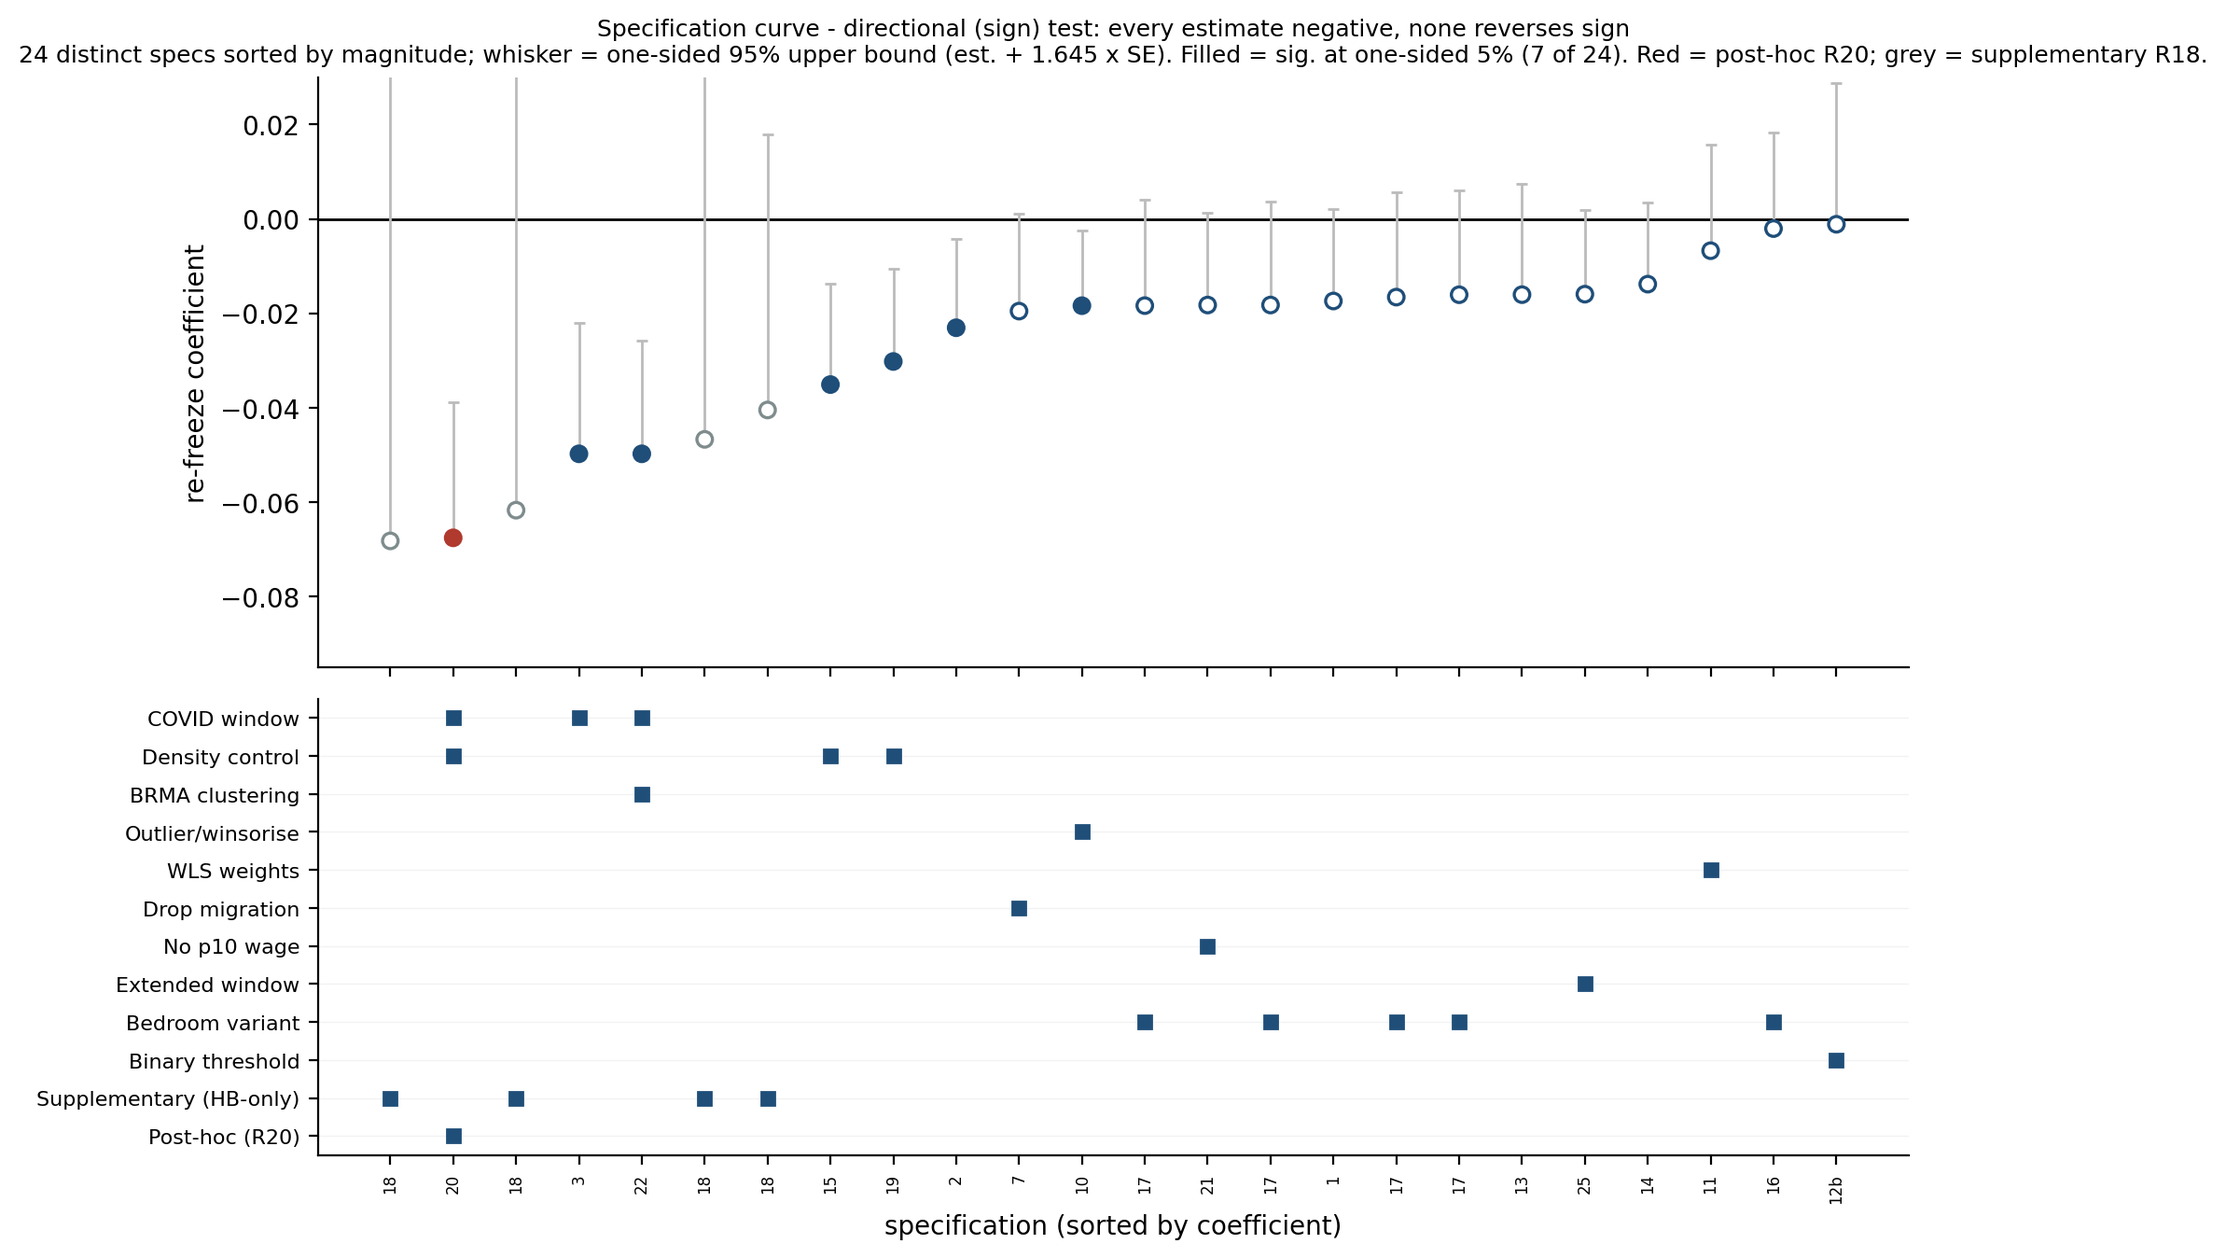
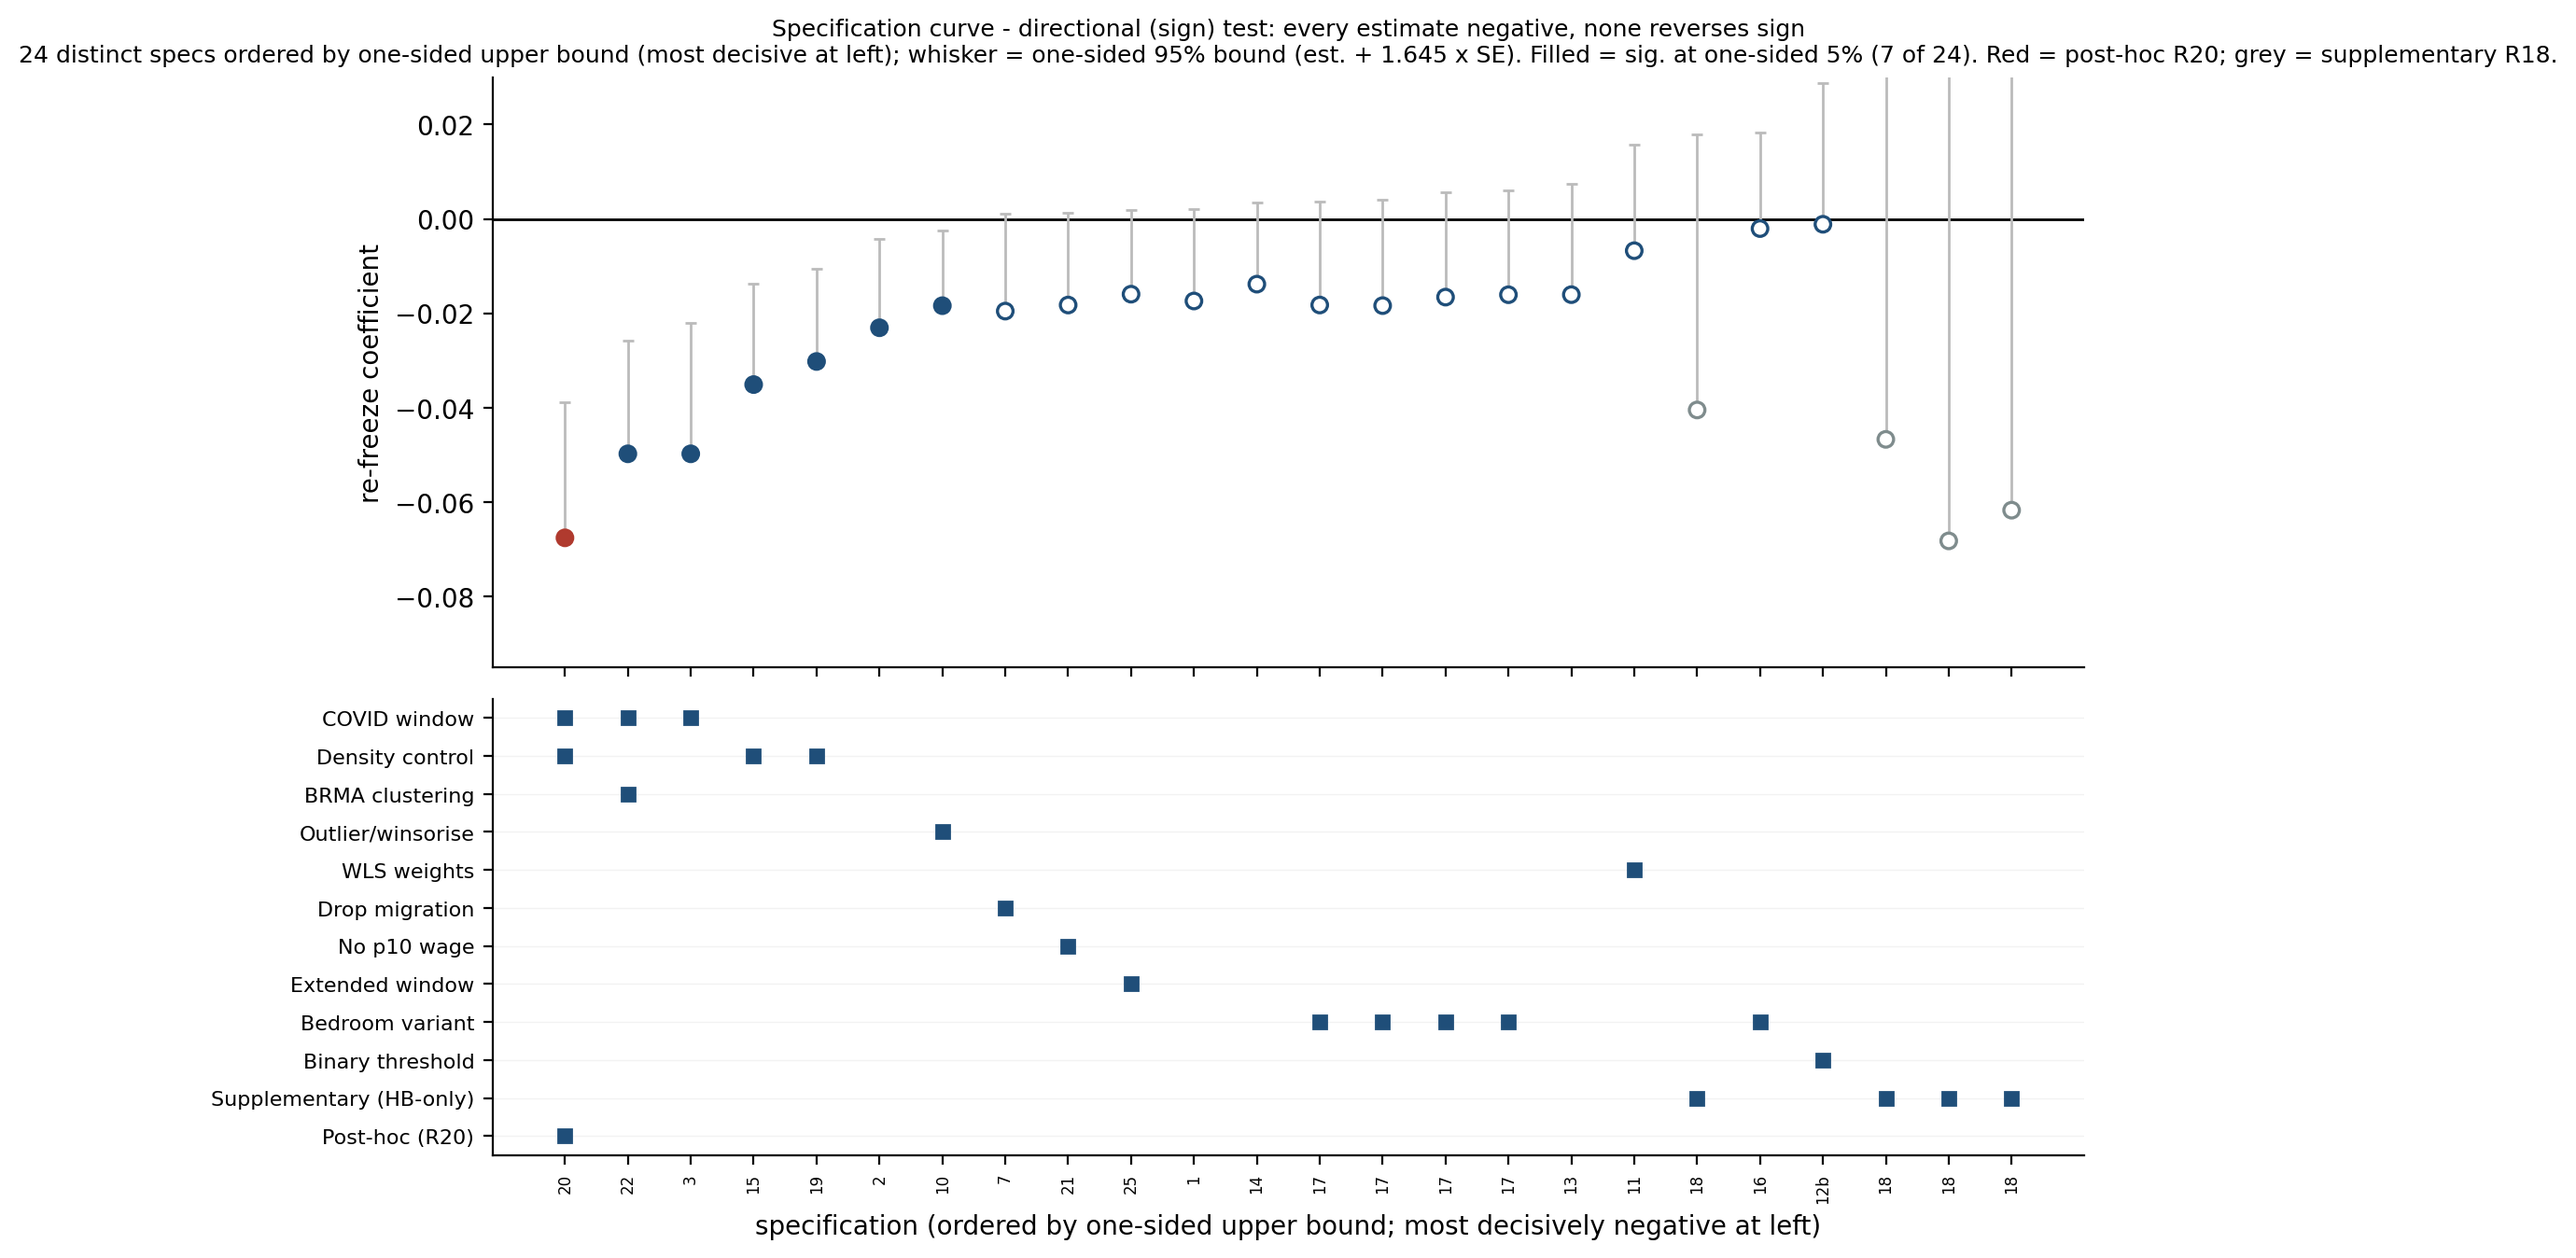
Update NEF package site

diff --git a/pages/working-papers/fiscal-capture.html b/pages/working-papers/fiscal-capture.html
@@ -1160,7 +1160,7 @@ Table&nbsp;4
 <p><img src="../../papers/spec_curve_cg2026b.png" style="width:92.0%" data-fig-align="center" class="figure-img"></p>
 </div>
 <figcaption class="quarto-float-caption-bottom quarto-float-caption quarto-float-fig" id="fig-spec-curve-caption-0ceaefa1-69ba-4598-a22c-09a6ac19f8ca">
-Figure&nbsp;5: <strong>Specification curve (directional test).</strong> The re-freeze coefficient (LHA intensity interacted with the freeze indicator) across the 24 distinct fiscal-capture specifications, sorted by magnitude. Because the design tests a signed prediction, each whisker is the one-sided 95% upper confidence bound (estimate + 1.645·SE) — the relevant edge for the sign-reversal hypothesis (<span class="math inline">\(H_0: \hat{\beta}_{\text{fr}} \geq 0\)</span>); a filled marker denotes a coefficient significantly negative at the one-sided 5% level (7 of 24), a hollow marker one that is not. Every point estimate is negative and none reverses sign. R20 (post-hoc mechanistic isolator) is red; the supplementary HB-only specifications (R18, whiskers clipped by the axis) are grey. The lower panel marks which analytical choices are active for each estimate; two construction-identical coverage variants (R8, R9) and the R4 placebo are omitted.
+Figure&nbsp;5: <strong>Specification curve (directional test).</strong> The re-freeze coefficient (LHA intensity interacted with the freeze indicator) across the 24 distinct fiscal-capture specifications, ordered by their one-sided 95% upper confidence bound so that the most decisively negative estimates sit leftmost. Because the design tests a signed prediction, each whisker is the one-sided 95% upper confidence bound (estimate + 1.645·SE) — the relevant edge for the sign-reversal hypothesis (<span class="math inline">\(H_0: \hat{\beta}_{\text{fr}} \geq 0\)</span>); a filled marker denotes a coefficient significantly negative at the one-sided 5% level (7 of 24), a hollow marker one that is not. Every point estimate is negative and none reverses sign. R20 (post-hoc mechanistic isolator) is red; the supplementary HB-only specifications (R18) are grey — their very negative point estimates carry such wide standard errors that their upper bounds clear zero, placing them at the right despite their magnitude (whiskers clipped by the axis). The lower panel marks which analytical choices are active for each estimate; two construction-identical coverage variants (R8, R9) and the R4 placebo are omitted.
 </figcaption>
 </figure>
 </div>
